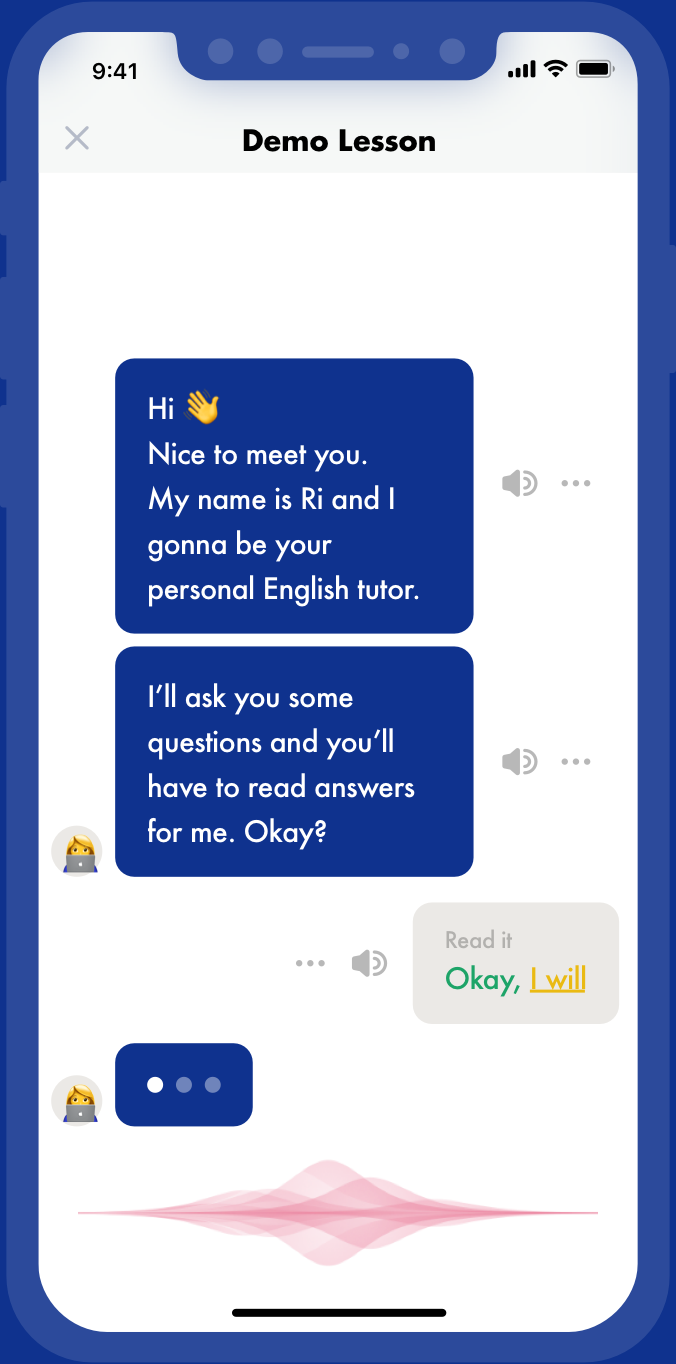
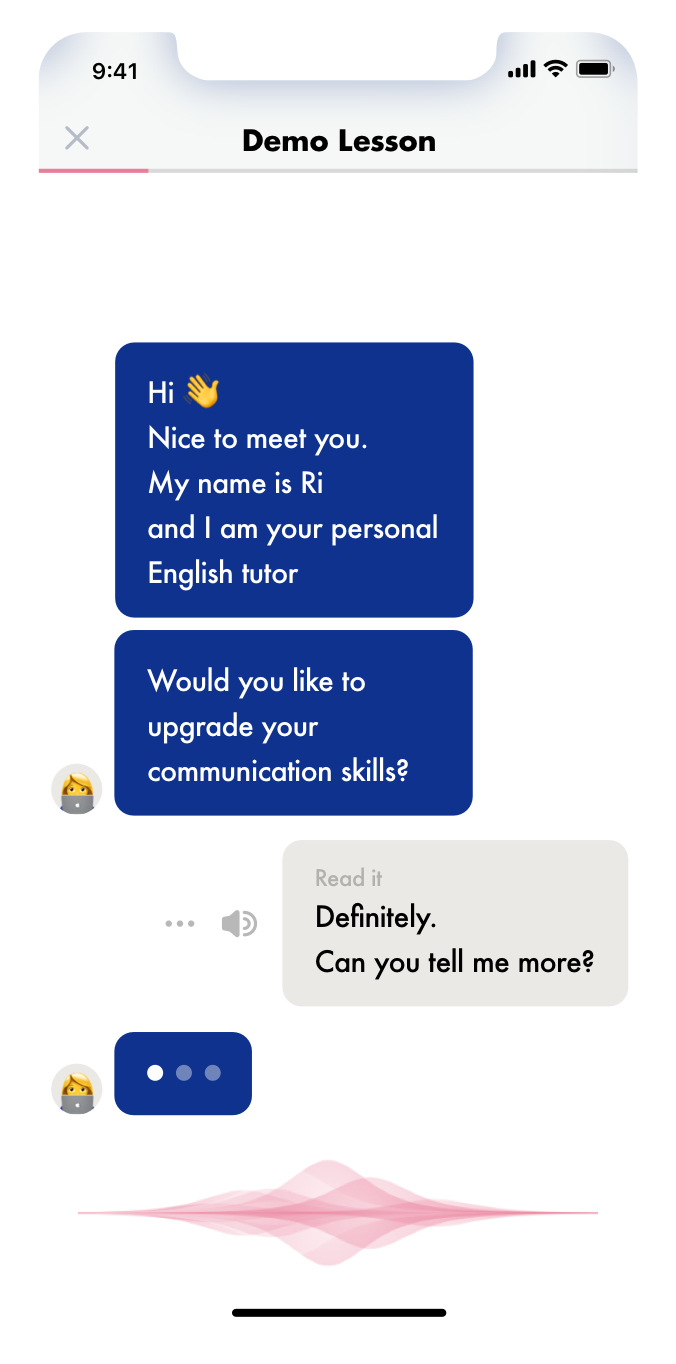
Update content

diff --git a/components/layout/layout.js b/components/layout/layout.js
@@ -17,7 +17,7 @@ const Layout = ({
       <meta name="viewport" content="initial-scale=1.0, width=device-width" />
       {ogTitle && <meta property="og:title" content={ogTitle} />}
       {ogDescription && <meta property="og:description" content={ogDescription} />}
-      <meta property="og:image" content="https://talktori.com/static/img/screenshot.jpg" />
+      <meta property="og:image" content="https://talktori.com/static/img/screenshot.png" />
       <link href="https://fonts.googleapis.com/css?family=Open+Sans" rel="stylesheet" />
     </Head>
     <style jsx global>{resetCSS}</style>
@@ -27,9 +27,9 @@ const Layout = ({
 );
 Layout.defaultProps = {
   title: 'AI English tutor',
-  description: 'Improve your English speaking skills and accent',
+  description: 'Improve your professional communication in English',
   ogTitle: 'AI English tutor',
-  ogDescription: 'Improve your English speaking skills and accent',
+  ogDescription: 'Improve your professional communication in English',
 };
 Layout.propTypes = {
   children: PropTypes.oneOfType([
